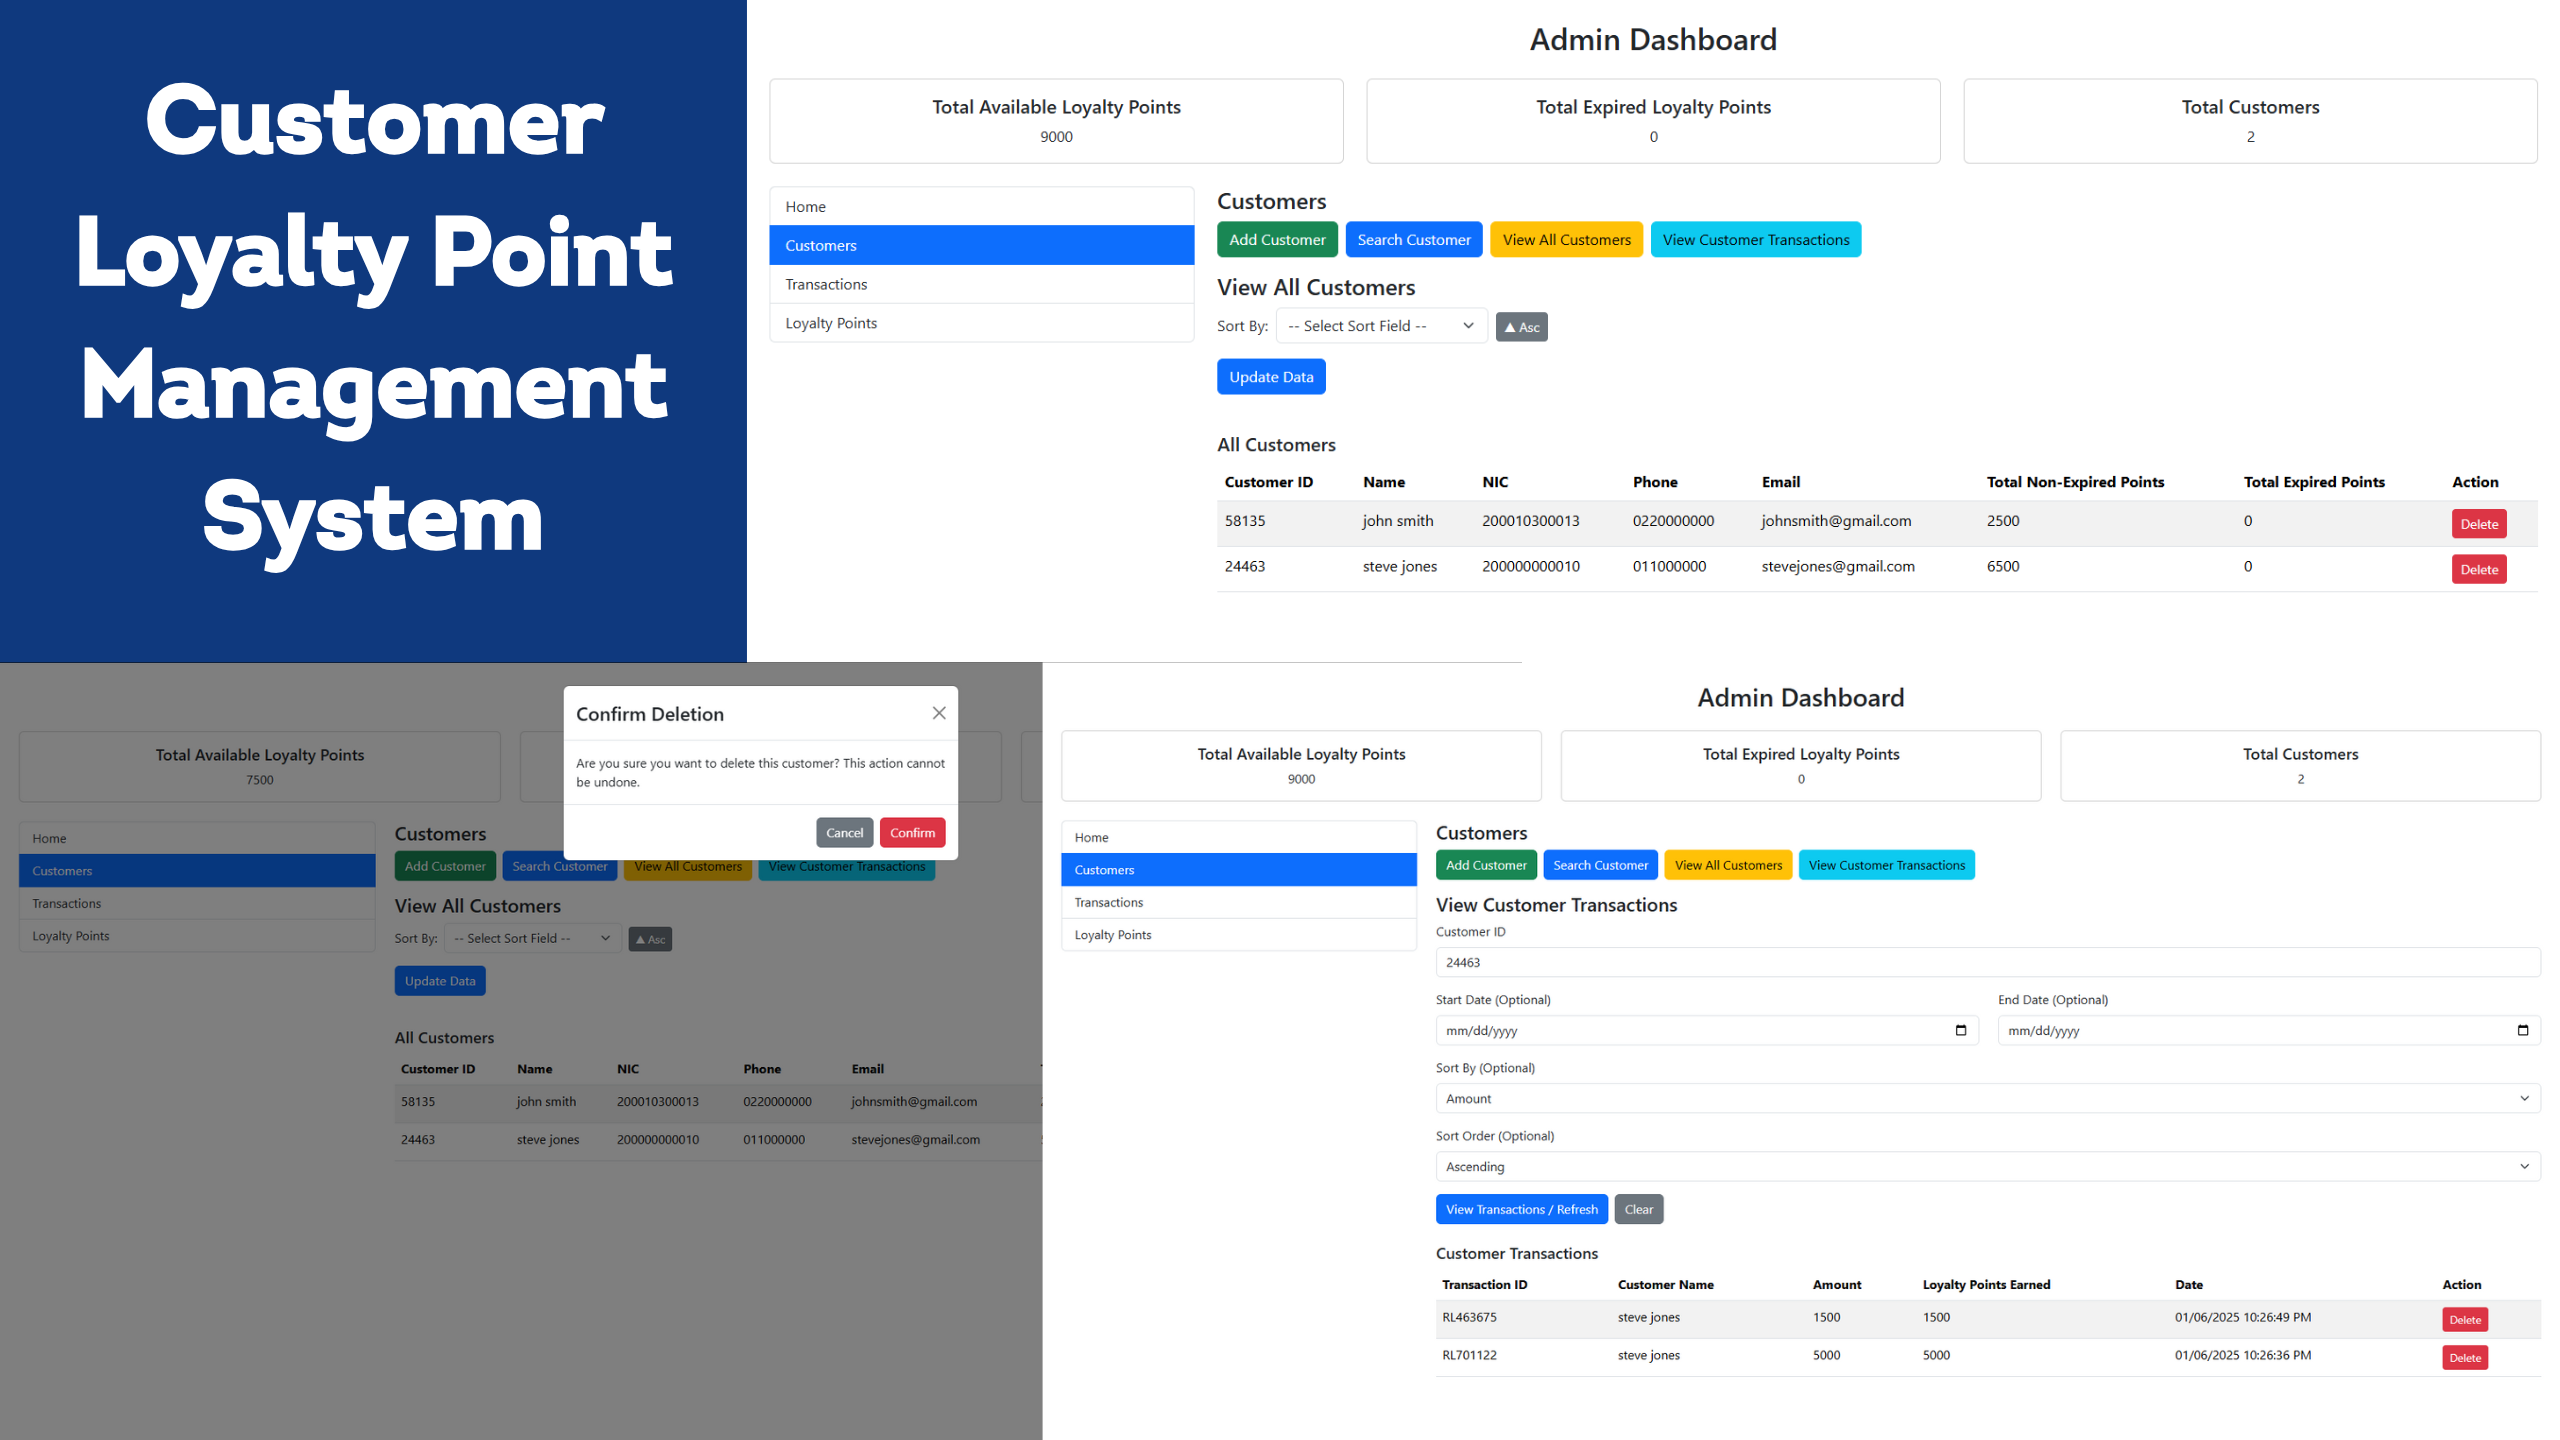
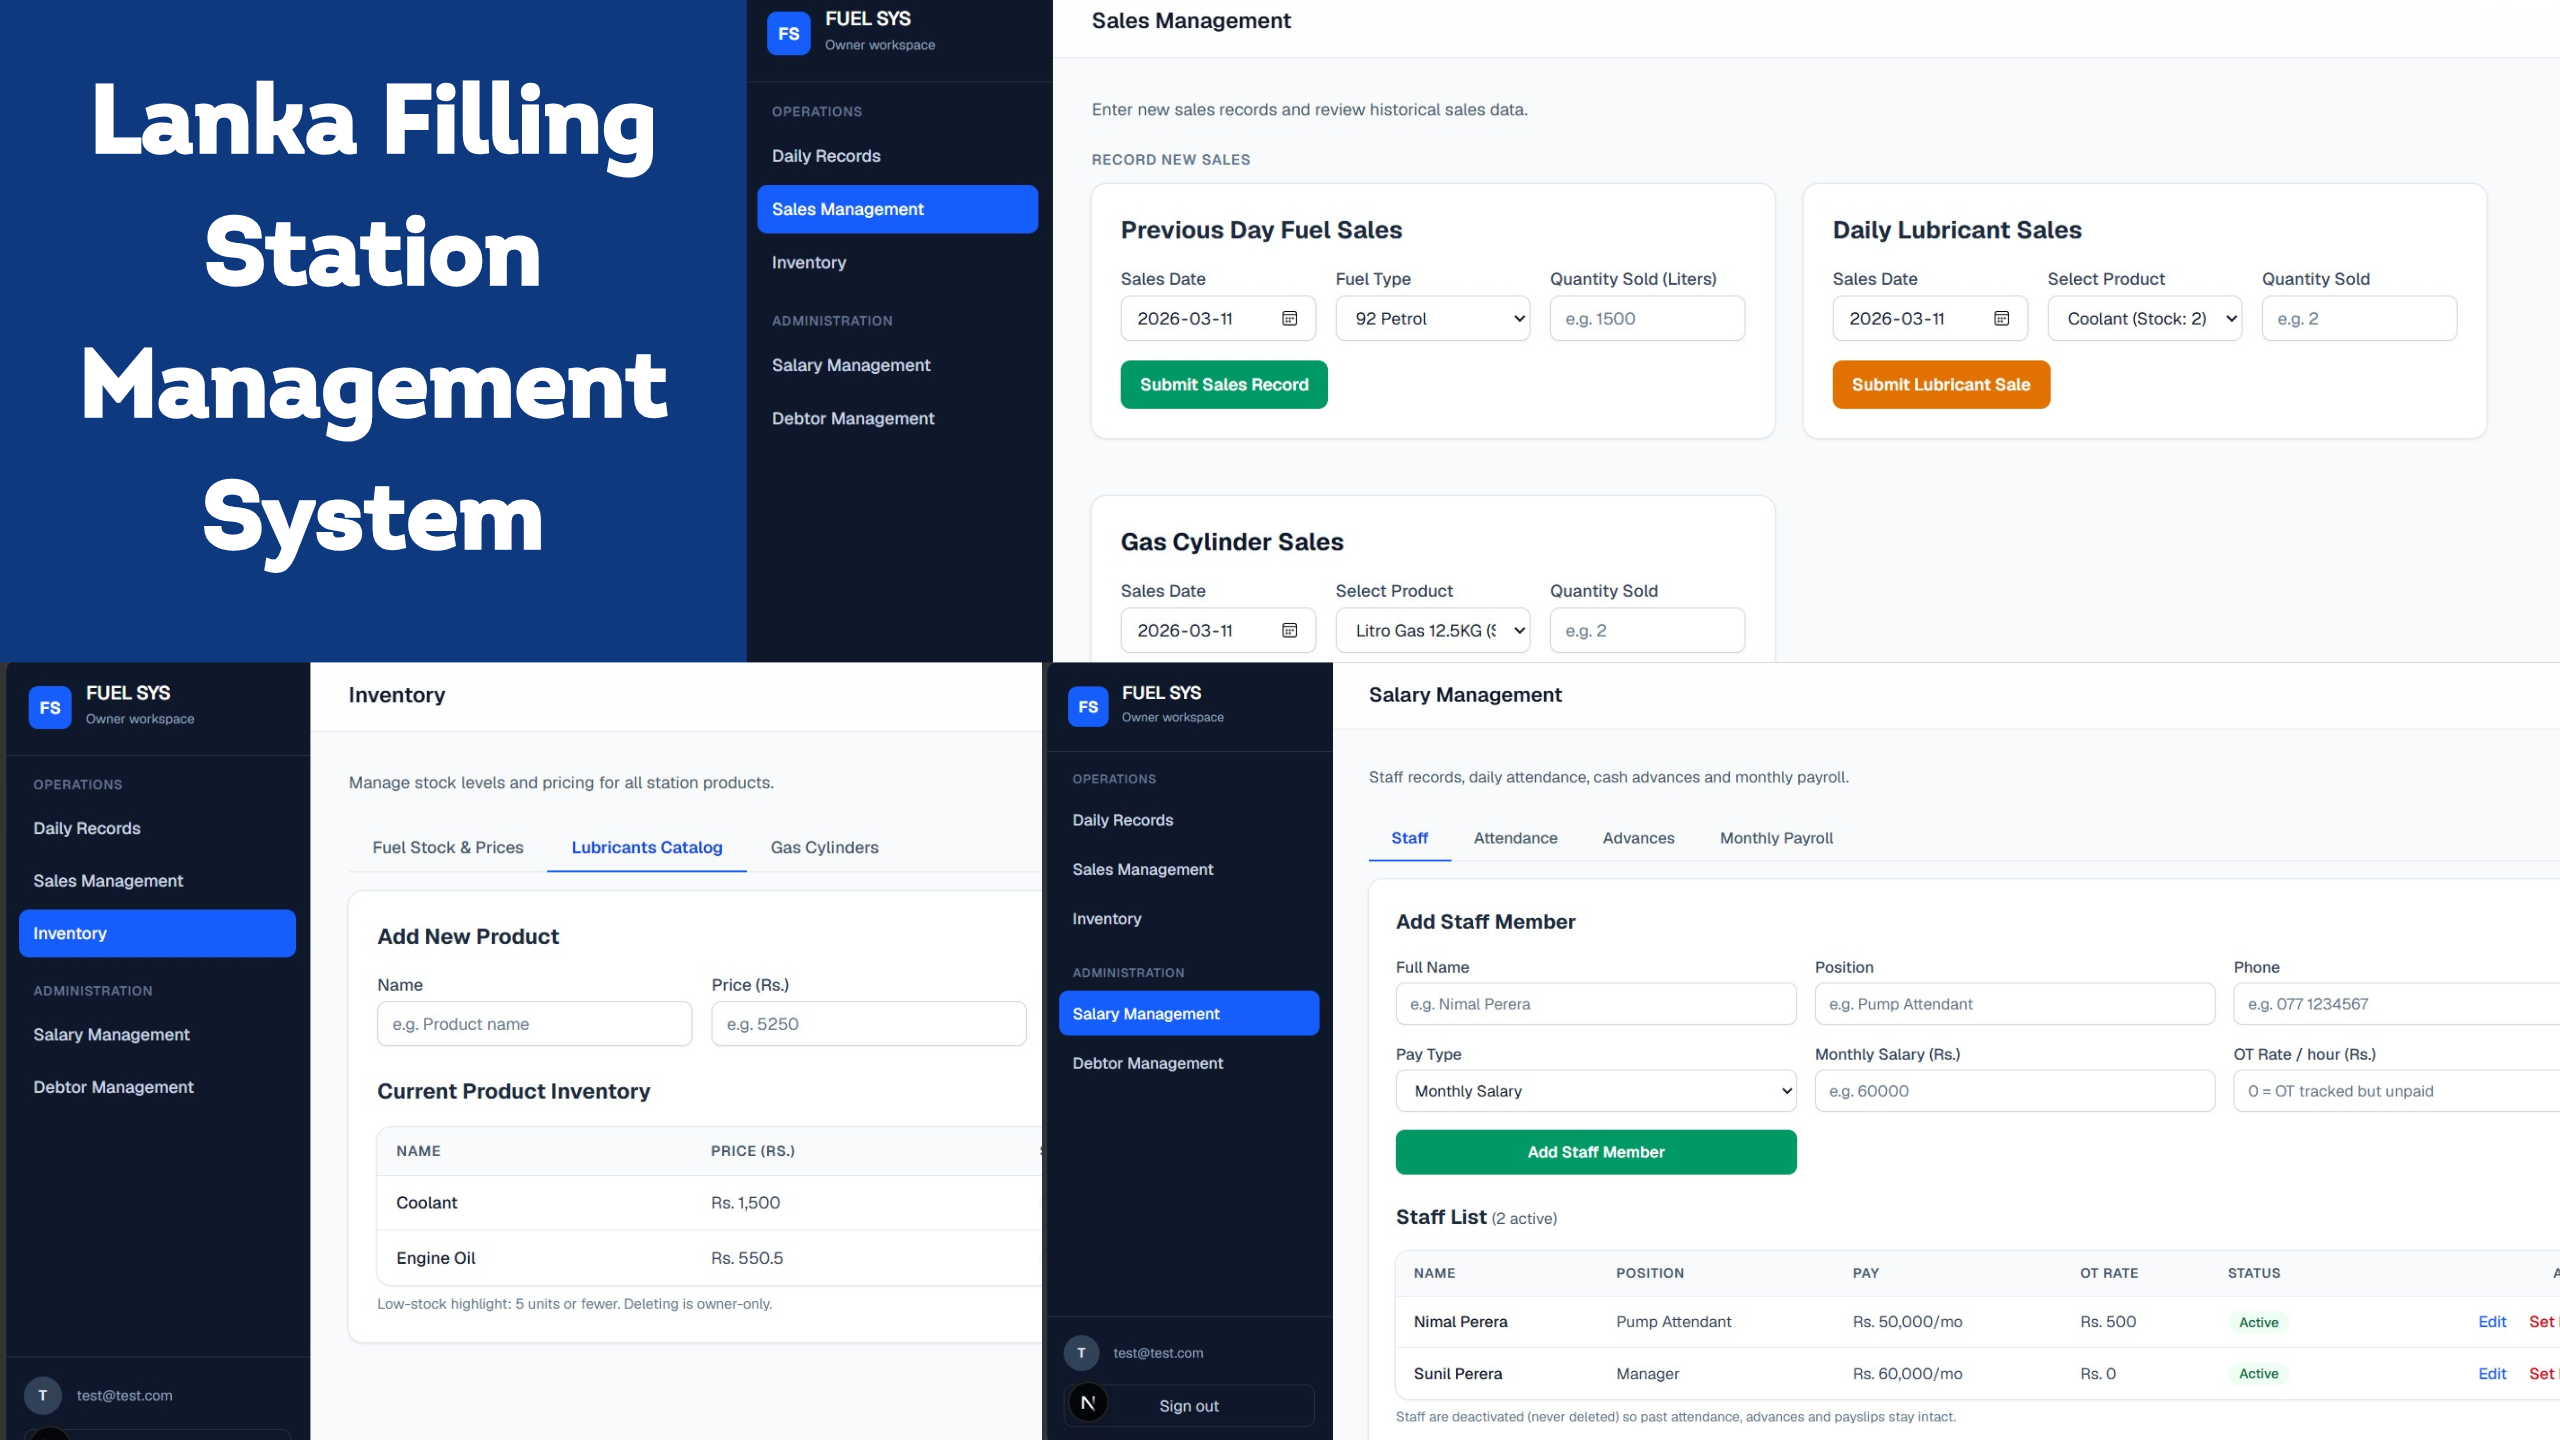
publications

diff --git a/src/App.jsx b/src/App.jsx
@@ -268,7 +268,7 @@ export default function App() {
               </div>
 
               <h3>AI & ML Engineer - Intern</h3>
-              <p>Sri Lanka Telecom PLC - Colombo, Sri Lanka <br/></p>
+              <p>Sri Lanka Telecom PLC - Colombo, Sri Lanka <br /></p>
 
               <ul className="experience-highlights">
                 <li>Engineered enterprise conversational AI agents using LangGraph and the OpenAI API, implementing semantic caching to reduce redundant API calls and LLM inference latency.</li>
@@ -315,10 +315,10 @@ export default function App() {
           <div className="section-heading">
             <div>
               <div className="eyebrow">
-                <span>06</span> BEYOND THE CODE
+                <span>06</span> ARTICLES & RESEARCH
               </div>
               <h2>
-                A space to think out loud<span className="accent">.</span>
+                Writings & publications<span className="accent">.</span>
               </h2>
             </div>
             <a
@@ -327,10 +327,19 @@ export default function App() {
               target="_blank"
               rel="noopener noreferrer"
             >
-              Find me on Medium <Arrow diagonal />
             </a>
           </div>
           <ArticleCard
+            category="CONFERENCE PAPER"
+            title="Green Mart: A user-centered mobile application for sustainable online shopping"
+            description="A user-centered design and usability evaluation of GreenMart, a prototype sustainable shopping platform. Published in the proceedings of the International Symposium on Agriculture and Environment (ISAE 2026), University of Ruhuna."
+            link="https://www.researchgate.net/publication/414470982_Green_Mart_A_user-centered_mobile_application_for_sustainable_online_shopping"
+            date="Sep 2026"
+            info="Read the publication on ResearchGate"
+          />
+          <ArticleCard
+            category="BLOG ARTICLE"
+            imageAlt="Sri Lankan cricket"
             title="The History of Sri Lankan Cricket"
             description="Cricket, often referred to as a religion in Sri Lanka, has been a source of national pride and passion for decades. A look back at where it all began."
             image="/historyofslcricArticle.webp"

diff --git a/src/components/ArticleCard.jsx b/src/components/ArticleCard.jsx
@@ -6,18 +6,20 @@ export default function ArticleCard({
   link,
   date,
   info,
+  category = "BEYOND THE CODE",
+  imageAlt = title,
 }) {
   return (
     <a
       href={link}
       target="_blank"
       rel="noopener noreferrer"
-      className="article-card"
+      className={`article-card${image ? "" : " article-card--text-only"}`}
     >
       <div className="article-image">
         <img
           src={image}
-          alt="Sri Lankan cricket"
+          alt={imageAlt}
           loading="lazy"
           width="600"
           height="400"
@@ -25,7 +27,7 @@ export default function ArticleCard({
       </div>
       <div className="article-copy">
         <div className="article-meta">
-          <span>MEDIUM</span>
+          <span>{category}</span>
           <span>{date}</span>
         </div>
         <h3>{title}</h3>

diff --git a/src/index.css b/src/index.css
@@ -956,6 +956,17 @@ h2 {
 .article-card:hover {
   border-color: var(--accent);
 }
+
+.article-card--text-only {
+  grid-template-columns: minmax(0, 1fr) 50px;
+}
+
+@media (max-width: 1100px) {
+  .article-card--text-only {
+    grid-template-columns: minmax(0, 1fr);
+  }
+}
+
 .article-image {
   height: 212px;
   overflow: hidden;
